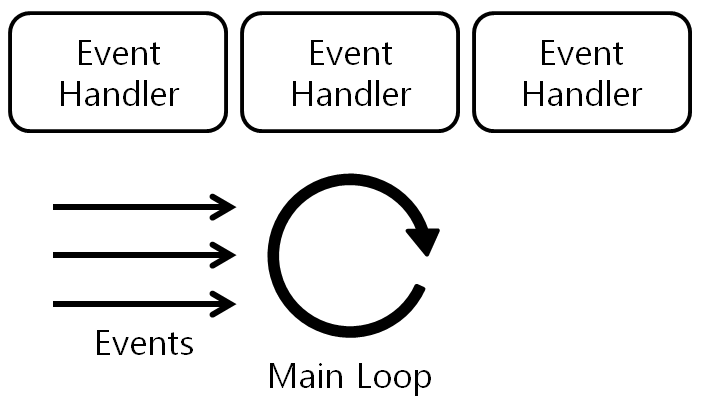
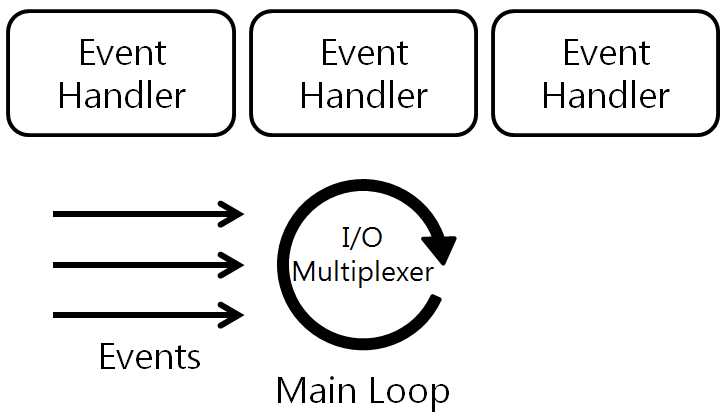
Update Event Driven Architecture

diff --git a/_docs/theory_analysis/Event_Driven_Architecture_on_Linux.md b/_docs/theory_analysis/Event_Driven_Architecture_on_Linux.md
@@ -11,8 +11,68 @@ Event Driven Architecture를 분석하고 Linux에서 동작하는 Event Driven 
 
 ### 1. Event Driven Architecture
 
-![]({{site.baseurl}}/images/theory_analysis/Event_Driven_Architecture_on_Linux/Event_Driven_Architecture.PNG){: width="400px"}
+![]({{site.baseurl}}/images/theory_analysis/Event_Driven_Architecture_on_Linux/Event_Driven_Architecture.PNG){: width="500px"}
+
+Event Driven Architecture는 **Event**와 해당 Event를 처리하는 **Event Handler**로 구성된다. 또한 **Main Loop**라는 Single Thread만 이용한다는 점이 특징이다. Main Loop Thread는 평소에 Blocking되어 있다가 Event가 발생하면 해당 Event가 어떤 Event인지 파악한 후 해당하는 Event Handler를 실행한다. 그 후 다시 Blocking 상태가 되어 다음 Event가 올 때까지 대기한다. 이렇게 평소에 Blocking 되어 있다가 발생한 Event를 알려주는 역활을 하는 함수를 **I/O Multiplexer**라고 한다. Main Loop Thread가 Event 발생순으로 매우 빠르게 Event Handler들을 실행하기 때문에 Concurrent 프로그램처럼 동작하게 된다.
+
+{% highlight C++ %}
+int event_handler1(event *ev){
+  // Non-blocking
+}
+
+int event_handler2(event *ev){
+  // Non-blocking
+}
+
+int main()
+{
+  // Init I/O multiplexer
+  IOMultiplexer multiplexer;
+
+  // Registe event to multiplexer
+  multiplexer.Add(ev1)
+  multiplexer.Add(ev2)
+
+  // Run main loop
+  while(ture){
+    ev_list = multiplexer.wait() // Only blocked here
+
+    for(ev:ev_list){
+      switch(ev){
+        case: ev1
+          event_handler1();
+          break;
+        case: ev2
+          event_handler2();
+          break;    
+      }
+    }
+  }
+}
+{% endhighlight %}
+
+Event Drivent Architecture는 Main Loop라는 Single Thread를 이용하기 때문에 Race Condtion이 발생하지 않는다. 따라서 Lock을 이용한 자원 동기화가 불필요 하기 때문에 프로그래밍이 간단하다는 큰 장점이 있다. 하지만 몇가지 단점도 가지고 있다.
+
+먼져 Main Loop는 Event Handler안에서 Blocking상태가 되면 안된다. 오직 Event를 대기하는 곳에서만 Blocking 상태가 되어야 한다. Event Handler안에서 Blocking 상태가 되면 그 사이에 발생한 Event는 처리되지 못하기 때문에 프로그램의 반응성이 크게 떨어진다. Event Handler안에서 발생하는 Blocking 동작은 대부분은 I/O 동작을 위한 read(), write() 같은 System Call에서 발생한다. 이러한 Blocking 현상을 막기 위해서는 Non-blocking Option을 통해서 System Call을 호출하거나 AIO(Async I/O)를 이용해야 한다.
+
+또 하나의 단점은 Single Thread로 동작하기 때문에 Mult-Core CPU를 100% 이용할 수 없다는 단점이 있다. 따라서 Event Driven Architecture만 이용해서는 CPU Bound 프로그램에 제대로 대응 할 수 없다.
 
 ### 2. On Linux
 
-![]({{site.baseurl}}/images/theory_analysis/Event_Driven_Architecture_on_Linux/Event_Driven_Architecture_on_Linux.PNG){: width="400px"}
+#### 2.1. I/O Multiplexer
+
+Linux에서는 **select(), poll(), epoll()** 3개의 I/O Multiplexer를 제공한다. Linux에서 모든 프로그램은 fd(File Descriptor)를 이용하여 I/O를 처리한다. 이러한 특징을 이용하여 I/O Multiplexer는 fd의 상태 변화를 감지하고 프로그램에게 알려주어 Multiplexing을 수행한다. 일반적으로 성능이 가장 좋은 epoll()이 가장많이 이용된다. 하지만 epoll()은 POSIX 표준이 아니이고 Linux Kernel 2.6 이후에서만 지원하기 때문에 개발 환경에 맞게 select()나 poll()을 선택해야 한다.
+
+#### 2.2. fd Heler functions
+
+Linux에서 지원하는 I/O Multiplexer는 모두 fd를 기반으로 동작한다. 이러한 특징 때문에 프로그램으로 전달되는 Event들을 fd로 받거나 또는 fd로 전달 할 수 있어야 한다. Linux Kernel에서는 이러한 Event / fd 전환을 도와주는 timerfd(), signalfd(), eventfd() 함수들이 존재한다.
+
+timerfd() 함수는 일정한 주기로 fd를 읽기 가능 상태로 바꾸어 준다. 따라서 timerfd()를 이용하면 일정한 주기로 Event Handler를 실행시킬 수 있다. signalfd()는 Linux Kernel로 부터 오는 Signal을 fd의 변화로 전환해주는 역활을 한다. signalfd()를 통해서 signal 처리를 event handler에서 수행 할 수 있다.
+
+eventfd()는 pipe()의 개량형으로 fd를 통해서 Data를 주고 받을 수 있다. eventfd()는 pipe()와 다르게 하나의 fd를 통해서 Data를 주고 받을 수 있다. 또한 User/User, User/Kernel, Kernel/Kernel Thread간의 또는 동일 Thread간의 Data 전달이 가능하여 Thread 제한이 없다는 장점을 갖고 있다. 또 하나의 중요한 특징중 하나는 전송할 수 있는 Data의 크기가 최대 64byte라는 점이다. 따라서 64Byte보다 큰 Data를 전달하기 위해서는 Shared Memory 공간을 만들고 그 위에 큐를 만들어 전달해야 한다. 64Byte의 제한이 있지만 pipe()와 다르게 전달 할 Data의 Kernel Memory에 복사과정이 없기 때문에 성능이 빠르다. eventfd()를 이용하여 Event Handler간의 통신이나 다른 Thread간의 통신을 구현 할 수 있다.
+
+#### 2.3. Architecture Design
+
+![]({{site.baseurl}}/images/theory_analysis/Event_Driven_Architecture_on_Linux/Event_Driven_Architecture_on_Linux.PNG){: width="500px"}
+
+epoll()과 fd Helper Function들을 이용하면 위의 그림과 같은 Architecture 설계가 가능하다. Handler 간의 통신의 경우 전달해야 할 Data의 크기가 64Byte보다 크다면, Share Memory를 필요없고 전역 공간에 Queue를 만들어 이용하면 된다.
